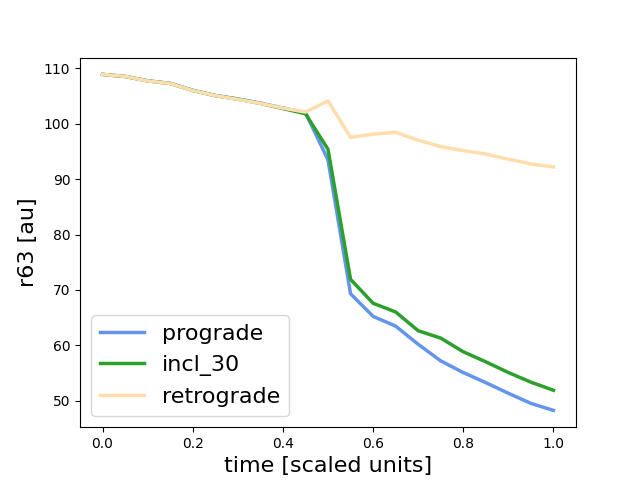
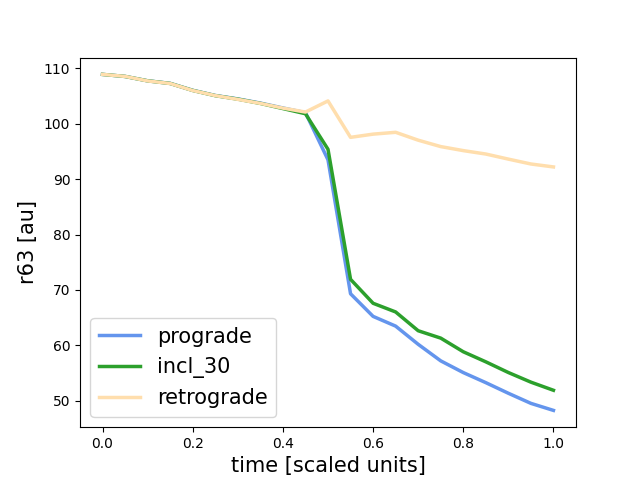
changes to cr plot

diff --git a/paper figures.py b/paper figures.py
@@ -9,7 +9,7 @@ from render import render
 FOLDERS = ['prograde', 'incl_30', 'retrograde']
 PARTICLE_INDICES = [1] # 0 = gas, 1 = dust1, 2 = dust2, 3 = sinks
 COLORS = ['cornflowerblue','tab:green', 'navajowhite']
-fs = 12
+
 def processData(sdf, sdf_sinks):
     sdf.calc_density()
 
@@ -90,7 +90,7 @@ fig_dust2, ax_dust2 = plt.subplots()
 
 for folder in FOLDERS:
     color = COLORS[FOLDERS.index(folder)]
-
+    fs = 15
     # Gas
     results[folder] = {}
     for file in os.listdir(folder):
